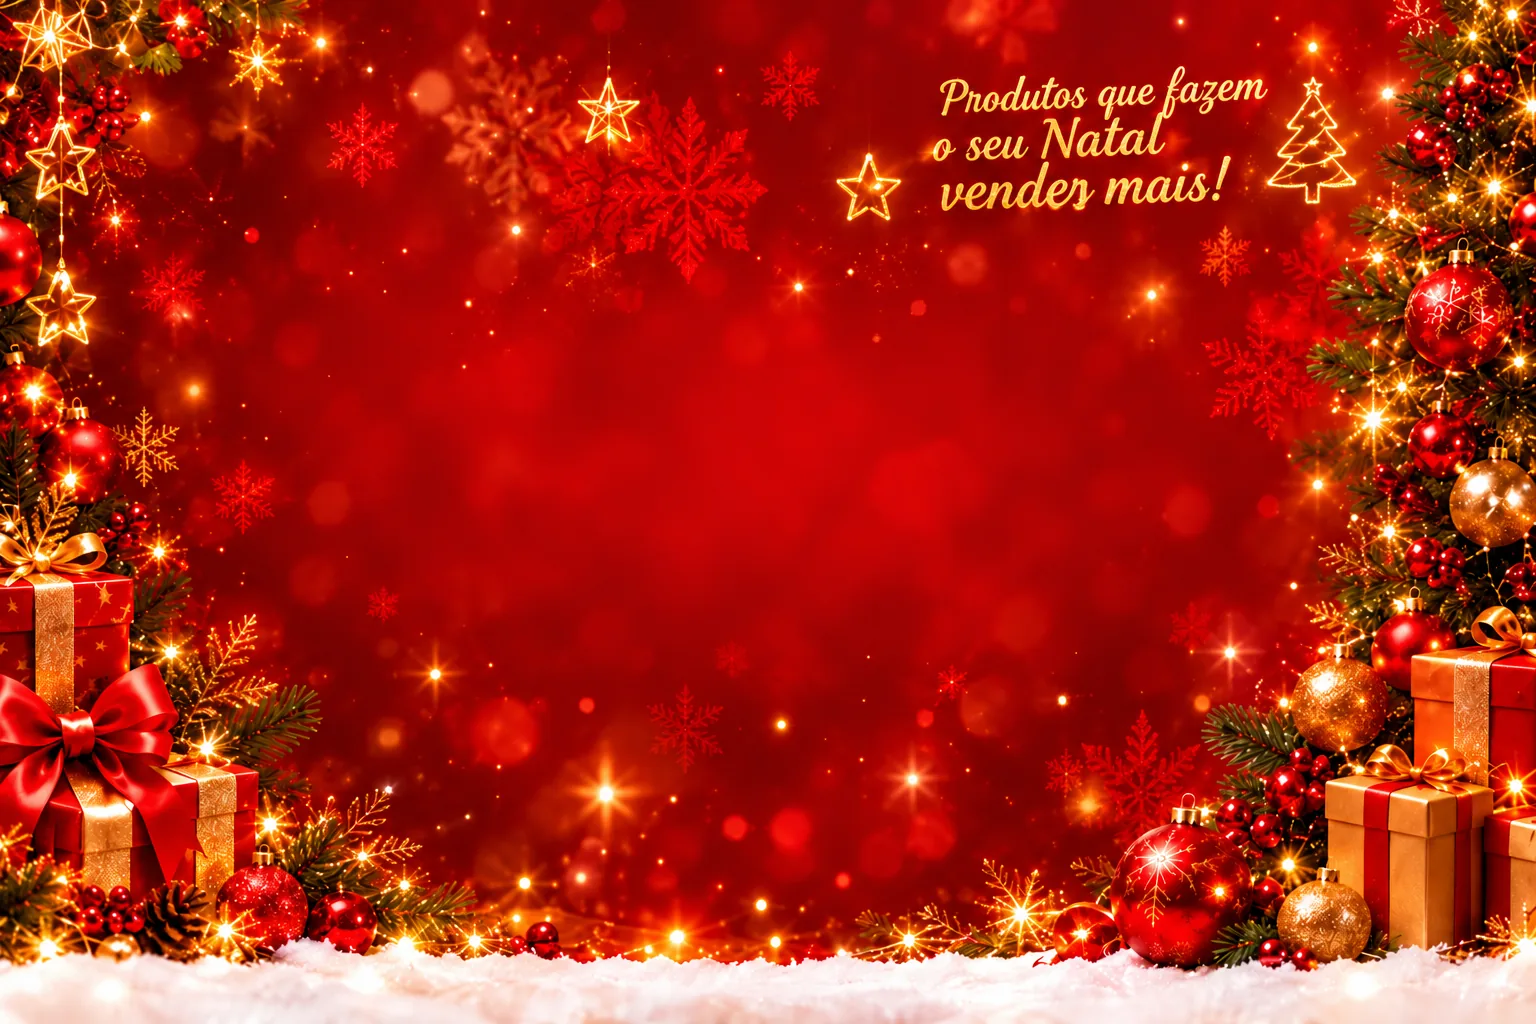
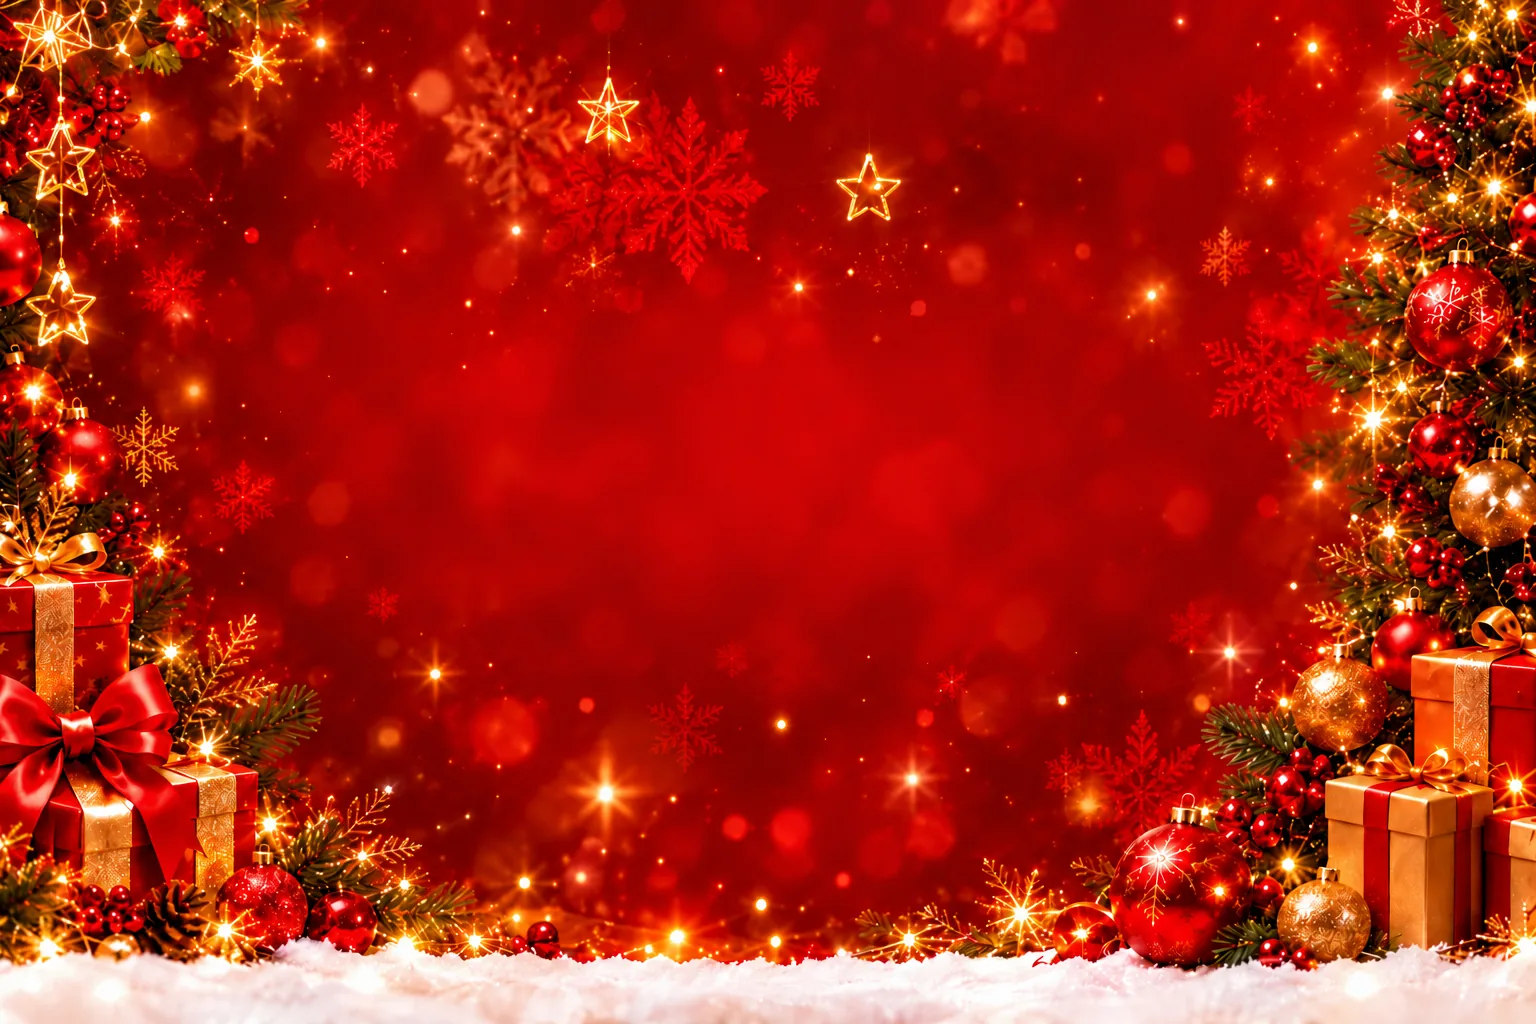
feat(temas): ajustes dos prints do cliente no Natal e no Ano Novo
- Natal: título do banner, "Seleção de Natal" e frase das ofertas em arte
  fixa igual ao esboço; fundo das ofertas sem frase escrita.
- Ano Novo: sem fundo azul nas caixas de texto das marcas, das ofertas e
  da nota; sombra para manter a leitura sobre o dourado.

diff --git a/app/themes/ano-novo.css b/app/themes/ano-novo.css
@@ -389,11 +389,12 @@
   line-height: 1.4;
 }
 
-/* Fond opaque pour garantir la lisibilité sur les décors. */
+/* Textos direto sobre a arte, sem caixa (pedido do cliente); a sombra
+   garante a leitura sobre o dourado. */
 .site-v2.v2-theme.theme-ano-novo .v2-brands-head > div {
-  border-radius: 4px;
-  background: #06264c;
-  box-shadow: 0 0 0 5px #06264c;
+  text-shadow:
+    0 1px 2px rgb(0 0 0 / 85%),
+    0 0 14px rgb(0 0 0 / 60%);
 }
 
 .site-v2.v2-theme.theme-ano-novo .v2-link-light {
@@ -493,8 +494,8 @@
 }
 
 .site-v2.v2-theme.theme-ano-novo .v2-offers .v2-brands-head > div {
-  padding: 6px 10px;
-  background: #06264c;
+  padding: 0;
+  background: none;
   box-shadow: none;
 }
 
@@ -521,11 +522,13 @@
   width: fit-content;
   max-width: 100%;
   margin-top: 12px;
-  padding: 6px 10px;
-  border-radius: 4px;
-  background: #06264c;
+  padding: 0;
+  background: none;
   color: #ffffff;
   line-height: 1.45;
+  text-shadow:
+    0 1px 2px rgb(0 0 0 / 90%),
+    0 0 10px rgb(0 0 0 / 70%);
 }
 
 /* Contato: compacto, com decoração à direita. */
@@ -930,4 +933,14 @@
     transform: none;
     font-size: 23vw;
   }
+}
+
+/* Ofertas sem caixa azul: sombra mais forte para ler sobre o dourado. */
+.site-v2.v2-theme.theme-ano-novo .v2-offers .v2-brands-head > div,
+.site-v2.v2-theme.theme-ano-novo .v2-offers .v2-panel-note {
+  text-shadow:
+    0 1px 2px rgb(25 12 0 / 95%),
+    0 0 6px rgb(25 12 0 / 90%),
+    0 0 18px rgb(25 12 0 / 75%),
+    0 0 34px rgb(0 0 0 / 55%);
 }

diff --git a/app/themes/natal.css b/app/themes/natal.css
@@ -787,3 +787,52 @@
     pointer-events: none;
   }
 }
+
+/* Títulos em arte fixa, iguais ao esboço (pedido do cliente).
+   O texto continua no HTML para leitores de tela e busca, só fica
+   sem tamanho visual; a arte entra como fundo do próprio título. */
+.site-v2.v2-theme.theme-natal .v2-hero h2 {
+  width: min(560px, 100%);
+  aspect-ratio: 1200 / 703;
+  margin: 0;
+  background: url("/themes/natal-titulo.webp") left center / contain no-repeat;
+  -webkit-background-clip: border-box;
+  background-clip: border-box;
+  -webkit-text-stroke: 0;
+  font-size: 0;
+  filter: drop-shadow(0 8px 18px rgb(0 0 0 / 50%));
+}
+
+.site-v2.v2-theme.theme-natal .v2-hero h2 .v2-hero-title-accent {
+  font-size: 0;
+}
+
+.site-v2.v2-theme.theme-natal #ofertas .v2-brands-head > div {
+  width: min(470px, 100%);
+  aspect-ratio: 1200 / 262;
+  background: url("/themes/natal-selecao.webp") left center / contain no-repeat;
+}
+
+.site-v2.v2-theme.theme-natal #ofertas .v2-brands-head > div > * {
+  font-size: 0;
+  margin: 0;
+}
+
+@media (min-width: 1025px) {
+  .site-v2.v2-theme.theme-natal #ofertas .v2-brands-head::after {
+    content: "";
+    width: 300px;
+    max-width: none;
+    aspect-ratio: 1200 / 460;
+    background: url("/themes/natal-frase.webp") right center / contain no-repeat;
+    transform: none;
+    text-shadow: none;
+  }
+}
+
+@media (max-width: 760px) {
+  .site-v2.v2-theme.theme-natal .v2-hero h2 {
+    width: min(420px, 100%);
+    font-size: 0;
+  }
+}
